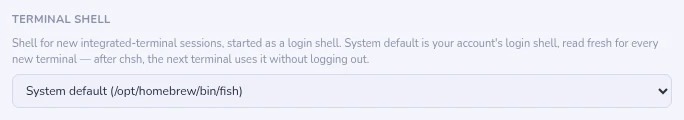
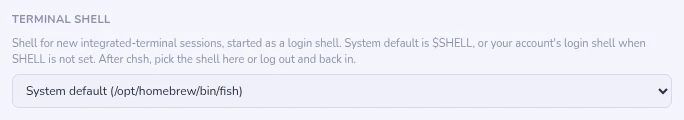
fix(terminal): prefer a valid $SHELL over the account's login shell
An account can name fish while every session runs zsh; starting the account
shell switched those users' terminal away from the shell they use. The order
is now $SHELL, then the account shell, then zsh/bash, then sh, with the same
validation. The Settings picker is how to force the account shell or any other,
and the docs say to pick it there or relogin after chsh.

Changed region(s): [[0.0, 0.45, 0.5526, 0.55], [0.614, 0.3, 0.9825, 0.4]]

diff --git a/test/loginShell.test.ts b/test/loginShell.test.ts
@@ -16,8 +16,8 @@ import {
 } from '../src/main/loginShell'
 
 // Which shell the terminal, launch tasks and the PATH probe start on macOS/Linux.
-// The account's login shell (getpwuid) wins over SHELL, which a Dock-launched app
-// keeps from login time — a `chsh` to fish would otherwise need a relogin.
+// A valid SHELL wins — it is the shell the session runs, even when the account
+// names another — then the account's login shell (getpwuid), then the OS default.
 
 function probe(over: Partial<ShellProbe> & { exe?: string[] } = {}): ShellProbe & { warnings: string[] } {
   const exe = new Set(over.exe ?? ['/bin/zsh', '/bin/bash', '/bin/sh', '/opt/homebrew/bin/fish', '/usr/bin/fish'])
@@ -35,15 +35,28 @@ function probe(over: Partial<ShellProbe> & { exe?: string[] } = {}): ShellProbe 
 }
 
 describe('pickSystemShell — resolution order', () => {
-  it('prefers the account shell over a stale SHELL (chsh without relogin)', () => {
-    expect(pickSystemShell(probe({ accountShell: () => '/usr/bin/fish', envShell: '/bin/zsh' }))).toBe('/usr/bin/fish')
+  it('a valid SHELL wins over a different account shell (fish in passwd, zsh in use)', () => {
+    expect(pickSystemShell(probe({ accountShell: () => '/usr/bin/fish', envShell: '/bin/zsh' }))).toBe('/bin/zsh')
   })
 
-  it('falls back to SHELL when the account shell is unknown or unusable', () => {
-    expect(pickSystemShell(probe({ envShell: '/bin/bash' }))).toBe('/bin/bash')
-    expect(pickSystemShell(probe({ accountShell: () => '/gone/zsh', envShell: '/bin/bash' }))).toBe('/bin/bash')
-    expect(pickSystemShell(probe({ accountShell: () => 'zsh', envShell: '/bin/bash' }))).toBe('/bin/bash')
-    expect(pickSystemShell(probe({ accountShell: () => '/usr/sbin/nologin', envShell: '/bin/bash' }))).toBe('/bin/bash')
+  it('keeps SHELL after a chsh until relogin — the Settings picker is the way to switch at once', () => {
+    // chsh changed the account to fish; the running session's SHELL still says zsh.
+    const p = probe({ accountShell: () => '/usr/bin/fish', envShell: '/bin/zsh' })
+    expect(pickSystemShell(p)).toBe('/bin/zsh')
+    expect(resolvePosixShell('/usr/bin/fish', p, pickSystemShell(p)).file).toBe('/usr/bin/fish')
+  })
+
+  it('falls back to the account shell when SHELL is missing or unusable', () => {
+    expect(pickSystemShell(probe({ accountShell: () => '/usr/bin/fish' }))).toBe('/usr/bin/fish')
+    expect(pickSystemShell(probe({ accountShell: () => '/usr/bin/fish', envShell: '' }))).toBe('/usr/bin/fish')
+    expect(pickSystemShell(probe({ accountShell: () => '/usr/bin/fish', envShell: '/gone/zsh' }))).toBe('/usr/bin/fish')
+    expect(pickSystemShell(probe({ accountShell: () => '/usr/bin/fish', envShell: 'zsh' }))).toBe('/usr/bin/fish')
+    expect(pickSystemShell(probe({ accountShell: () => '/bin/bash', envShell: '/usr/sbin/nologin' }))).toBe('/bin/bash')
+  })
+
+  it('skips an unusable account shell too', () => {
+    expect(pickSystemShell(probe({ accountShell: () => '/usr/sbin/nologin' }))).toBe('/bin/zsh')
+    expect(pickSystemShell(probe({ platform: 'linux', accountShell: () => '/gone/fish' }))).toBe('/bin/bash')
   })
 
   it('uses the OS default when neither is usable: zsh on macOS, bash on Linux, then sh', () => {
@@ -158,9 +171,11 @@ describe.skipIf(process.platform === 'win32')('on this machine', () => {
     expect(resolvePosixShell(file, machineProbe(), '/bin/sh').missing).toBe(file)
   })
 
-  it('resolves the system shell to an executable', () => {
+  it('resolves the system shell to an executable — SHELL itself when it is one', () => {
     const sh = pickSystemShell(machineProbe())
     expect(sh.startsWith('/')).toBe(true)
     expect(() => execFileSync(sh, ['-c', 'exit 0'])).not.toThrow()
+    const env = process.env['SHELL']
+    if (env && env.startsWith('/') && machineProbe().isExecutable(env)) expect(sh).toBe(env)
   })
 })

diff --git a/src/main/loginShell.ts b/src/main/loginShell.ts
@@ -5,11 +5,11 @@ import { basename, dirname, isAbsolute, join } from 'path'
 /**
  * Which shell the terminal, launch tasks and the PATH probe run on macOS/Linux.
  *
- * `process.env.SHELL` alone is wrong for a GUI app: launched from the Dock or a
- * desktop menu it holds whatever the session started with, so a `chsh` to fish
- * only shows up after logging out — and it can be missing entirely. The
- * account database is the source of truth (`getpwuid`, which on macOS reads
- * Directory Services and so sees `chsh` at once); SHELL is the fallback.
+ * A valid `$SHELL` wins: it is the shell the user's session actually runs, and
+ * people do keep an account shell they never use (fish in passwd, zsh in
+ * SHELL). When SHELL is missing or unusable — a GUI app can start without it —
+ * the account database (`getpwuid`, Directory Services on macOS) is next. A
+ * `chsh` therefore shows after a relogin, or at once through the Settings picker.
  */
 
 /** Everything the decision reads from the machine — injected so tests can fake it. */
@@ -83,10 +83,10 @@ function validate(file: string | null | undefined, probe: ShellProbe, source: st
   return f
 }
 
-/** The resolution order, pure: account shell → SHELL → the OS default → /bin/sh. */
+/** The resolution order, pure: SHELL → account shell → the OS default → /bin/sh. */
 export function pickSystemShell(probe: ShellProbe): string {
   if (probe.platform === 'win32') return probe.envShell || 'powershell.exe'
-  const found = validate(probe.accountShell(), probe, 'account') ?? validate(probe.envShell, probe, 'SHELL')
+  const found = validate(probe.envShell, probe, 'SHELL') ?? validate(probe.accountShell(), probe, 'account')
   if (found) return found
   const fallback = probe.platform === 'darwin' ? '/bin/zsh' : '/bin/bash'
   return probe.isExecutable(fallback) ? fallback : '/bin/sh'
@@ -120,7 +120,7 @@ export function machineProbe(): ShellProbe {
       try {
         return userInfo().shell
       } catch {
-        // No passwd entry (some containers): fall through to SHELL.
+        // No passwd entry (some containers): fall through to the OS default.
         return null
       }
     },
@@ -139,7 +139,8 @@ let cached: string | null = null
 
 /**
  * The user's shell. Cached, but `refresh` re-reads it — a new terminal asks
- * for that (a getpwuid and a stat), so a `chsh` shows in the next terminal.
+ * for that (a stat or two), so a shell installed or removed meanwhile, or an
+ * account shell changed while SHELL is unusable, shows in the next terminal.
  */
 export function systemShell(refresh = false): string {
   if (refresh || cached === null) cached = pickSystemShell(machineProbe())

diff --git a/src/renderer/src/i18n/ru.ts b/src/renderer/src/i18n/ru.ts
@@ -1908,7 +1908,7 @@ export const ru: Dict = {
   'settings.terminalShellHint': 'Оболочка для новых сеансов встроенного терминала (существующие сеансы сохраняют свою).',
     'settings.terminalShellCustom': 'Другая…',
     'settings.terminalShellCustomPlaceholder': 'C:\\tools\\nu.exe',
-    'settings.terminalShellPosixHint': 'Оболочка для новых сеансов встроенного терминала, запускается как оболочка входа. По умолчанию — оболочка входа вашей учётной записи, она перечитывается для каждого нового терминала: после chsh следующий терминал использует её без повторного входа в систему.',
+    'settings.terminalShellPosixHint': 'Оболочка для новых сеансов встроенного терминала, запускается как оболочка входа. По умолчанию — $SHELL, а если SHELL не задана — оболочка входа вашей учётной записи. После chsh выберите оболочку здесь или выйдите из системы и войдите снова.',
     'settings.terminalShellSystem': 'Системная по умолчанию ({shell})',
     'settings.terminalShellSystemPlain': 'Системная по умолчанию',
     'settings.terminalShellPosixPlaceholder': '/opt/homebrew/bin/fish',

diff --git a/src/renderer/src/i18n/uk.ts b/src/renderer/src/i18n/uk.ts
@@ -1908,7 +1908,7 @@ export const uk: Dict = {
   'settings.terminalShellHint': 'Оболонка для нових сеансів вбудованого термінала (наявні сеанси зберігають свою).',
     'settings.terminalShellCustom': 'Інша…',
     'settings.terminalShellCustomPlaceholder': 'C:\\tools\\nu.exe',
-    'settings.terminalShellPosixHint': 'Оболонка для нових сеансів вбудованого термінала, запускається як оболонка входу. Типова системна — оболонка входу вашого облікового запису, її перечитують для кожного нового термінала: після chsh наступний термінал використає її без повторного входу.',
+    'settings.terminalShellPosixHint': 'Оболонка для нових сеансів вбудованого термінала, запускається як оболонка входу. Типова системна — $SHELL, а якщо SHELL не задано — оболонка входу вашого облікового запису. Після chsh виберіть оболонку тут або вийдіть із системи й увійдіть знову.',
     'settings.terminalShellSystem': 'Типова системна ({shell})',
     'settings.terminalShellSystemPlain': 'Типова системна',
     'settings.terminalShellPosixPlaceholder': '/opt/homebrew/bin/fish',

diff --git a/src/renderer/src/i18n/ar.ts b/src/renderer/src/i18n/ar.ts
@@ -1908,7 +1908,7 @@ export const ar: Dict = {
   'settings.terminalShellHint': 'الصدفة لجلسات الطرفية المدمجة الجديدة (الجلسات الحالية تحتفظ بصدفتها).',
     'settings.terminalShellCustom': 'مخصص…',
     'settings.terminalShellCustomPlaceholder': 'C:\\tools\\nu.exe',
-    'settings.terminalShellPosixHint': 'الصدفة المستخدمة لجلسات الطرفية المدمجة الجديدة، وتُشغَّل كصدفة تسجيل دخول. الافتراضي للنظام هو صدفة تسجيل الدخول لحسابك، وتُقرأ من جديد لكل طرفية جديدة — بعد chsh تستخدمها الطرفية التالية دون تسجيل الخروج.',
+    'settings.terminalShellPosixHint': 'الصدفة المستخدمة لجلسات الطرفية المدمجة الجديدة، وتُشغَّل كصدفة تسجيل دخول. الافتراضي للنظام هو $SHELL، أو صدفة تسجيل الدخول لحسابك إذا لم يكن SHELL معيّنًا. بعد chsh اختر الصدفة من هنا أو سجّل الخروج ثم الدخول من جديد.',
     'settings.terminalShellSystem': 'افتراضي النظام ({shell})',
     'settings.terminalShellSystemPlain': 'افتراضي النظام',
     'settings.terminalShellPosixPlaceholder': '/opt/homebrew/bin/fish',

diff --git a/src/renderer/src/i18n/he.ts b/src/renderer/src/i18n/he.ts
@@ -1908,7 +1908,7 @@ export const he: Dict = {
   'settings.terminalShellHint': 'המעטפת לסשנים חדשים של הטרמינל המשולב (סשנים קיימים שומרים על שלהם).',
     'settings.terminalShellCustom': 'מותאם אישית…',
     'settings.terminalShellCustomPlaceholder': 'C:\\tools\\nu.exe',
-    'settings.terminalShellPosixHint': 'המעטפת לסשנים חדשים של הטרמינל המשולב, מופעלת כמעטפת התחברות. ברירת המחדל של המערכת היא מעטפת ההתחברות של החשבון שלך, ונקראת מחדש לכל טרמינל חדש — אחרי chsh הטרמינל הבא משתמש בה בלי להתנתק.',
+    'settings.terminalShellPosixHint': 'המעטפת לסשנים חדשים של הטרמינל המשולב, מופעלת כמעטפת התחברות. ברירת המחדל של המערכת היא $SHELL, או מעטפת ההתחברות של החשבון שלך כש־SHELL אינו מוגדר. אחרי chsh בחרו את המעטפת כאן, או התנתקו והתחברו מחדש.',
     'settings.terminalShellSystem': 'ברירת המחדל של המערכת ({shell})',
     'settings.terminalShellSystemPlain': 'ברירת המחדל של המערכת',
     'settings.terminalShellPosixPlaceholder': '/opt/homebrew/bin/fish',

diff --git a/src/renderer/src/i18n/ja.ts b/src/renderer/src/i18n/ja.ts
@@ -1887,7 +1887,7 @@ export const ja: Dict = {
   'settings.terminalShellHint': '新しい統合ターミナルセッションのシェル（既存のセッションは現在のシェルを維持します）。',
     'settings.terminalShellCustom': 'カスタム…',
     'settings.terminalShellCustomPlaceholder': 'C:\\tools\\nu.exe',
-    'settings.terminalShellPosixHint': '統合ターミナルの新しいセッションで使うシェル（ログインシェルとして起動）。システム既定はアカウントのログインシェルで、新しいターミナルごとに読み直します。chsh の後は、ログアウトしなくても次のターミナルから反映されます。',
+    'settings.terminalShellPosixHint': '統合ターミナルの新しいセッションで使うシェル（ログインシェルとして起動）。システム既定は $SHELL で、SHELL が未設定ならアカウントのログインシェルを使います。chsh の後は、ここでシェルを選ぶか、ログアウトして再ログインしてください。',
     'settings.terminalShellSystem': 'システム既定（{shell}）',
     'settings.terminalShellSystemPlain': 'システム既定',
     'settings.terminalShellPosixPlaceholder': '/opt/homebrew/bin/fish',

diff --git a/src/renderer/src/i18n/ko.ts b/src/renderer/src/i18n/ko.ts
@@ -1908,7 +1908,7 @@ export const ko: Dict = {
   'settings.terminalShellHint': '새 통합 터미널 세션의 셸입니다 (기존 세션은 현재 셸을 유지합니다).',
     'settings.terminalShellCustom': '사용자 지정…',
     'settings.terminalShellCustomPlaceholder': 'C:\\tools\\nu.exe',
-    'settings.terminalShellPosixHint': '통합 터미널의 새 세션에서 사용할 셸로, 로그인 셸로 시작됩니다. 시스템 기본값은 계정의 로그인 셸이며 새 터미널마다 다시 읽습니다. chsh 후에는 다시 로그인하지 않아도 다음 터미널부터 적용됩니다.',
+    'settings.terminalShellPosixHint': '통합 터미널의 새 세션에서 사용할 셸로, 로그인 셸로 시작됩니다. 시스템 기본값은 $SHELL이며, SHELL이 설정되지 않았으면 계정의 로그인 셸을 사용합니다. chsh 후에는 여기서 셸을 선택하거나 로그아웃했다가 다시 로그인하세요.',
     'settings.terminalShellSystem': '시스템 기본값 ({shell})',
     'settings.terminalShellSystemPlain': '시스템 기본값',
     'settings.terminalShellPosixPlaceholder': '/opt/homebrew/bin/fish',

diff --git a/src/renderer/src/i18n/es.ts b/src/renderer/src/i18n/es.ts
@@ -1904,7 +1904,7 @@ export const es: Dict = {
   'settings.terminalShellHint': 'Shell para las nuevas sesiones del terminal integrado (las sesiones existentes conservan la suya).',
     'settings.terminalShellCustom': 'Personalizado…',
     'settings.terminalShellCustomPlaceholder': 'C:\\tools\\nu.exe',
-    'settings.terminalShellPosixHint': 'Shell para las nuevas sesiones del terminal integrado, iniciada como shell de inicio de sesión. El predeterminado del sistema es la shell de inicio de sesión de tu cuenta, leída de nuevo en cada terminal: tras chsh, el siguiente terminal la usa sin cerrar sesión.',
+    'settings.terminalShellPosixHint': 'Shell para las nuevas sesiones del terminal integrado, iniciada como shell de inicio de sesión. El predeterminado del sistema es $SHELL, o la shell de inicio de sesión de tu cuenta si SHELL no está definida. Tras chsh, elige la shell aquí o cierra sesión y vuelve a entrar.',
     'settings.terminalShellSystem': 'Predeterminado del sistema ({shell})',
     'settings.terminalShellSystemPlain': 'Predeterminado del sistema',
     'settings.terminalShellPosixPlaceholder': '/opt/homebrew/bin/fish',

diff --git a/src/renderer/src/i18n/tr.ts b/src/renderer/src/i18n/tr.ts
@@ -1887,7 +1887,7 @@ export const tr: Dict = {
   'settings.terminalShellHint': 'Yeni tümleşik terminal oturumları için kabuk (mevcut oturumlar kendi kabuğunu korur).',
     'settings.terminalShellCustom': 'Özel…',
     'settings.terminalShellCustomPlaceholder': 'C:\\tools\\nu.exe',
-    'settings.terminalShellPosixHint': 'Tümleşik terminalin yeni oturumları için kabuk, oturum açma kabuğu olarak başlatılır. Sistem varsayılanı hesabınızın oturum açma kabuğudur ve her yeni terminalde yeniden okunur — chsh sonrasında bir sonraki terminal, oturumu kapatmadan onu kullanır.',
+    'settings.terminalShellPosixHint': 'Tümleşik terminalin yeni oturumları için kabuk, oturum açma kabuğu olarak başlatılır. Sistem varsayılanı $SHELL\'dir; SHELL tanımlı değilse hesabınızın oturum açma kabuğu kullanılır. chsh sonrasında kabuğu buradan seçin ya da oturumu kapatıp yeniden açın.',
     'settings.terminalShellSystem': 'Sistem varsayılanı ({shell})',
     'settings.terminalShellSystemPlain': 'Sistem varsayılanı',
     'settings.terminalShellPosixPlaceholder': '/opt/homebrew/bin/fish',

diff --git a/src/renderer/src/i18n/fr.ts b/src/renderer/src/i18n/fr.ts
@@ -1887,7 +1887,7 @@ export const fr: Dict = {
   'settings.terminalShellHint': 'Shell pour les nouvelles sessions du terminal intégré (les sessions existantes gardent le leur).',
     'settings.terminalShellCustom': 'Personnalisé…',
     'settings.terminalShellCustomPlaceholder': 'C:\\tools\\nu.exe',
-    'settings.terminalShellPosixHint': 'Shell des nouvelles sessions du terminal intégré, lancé comme shell de connexion. Le défaut système est le shell de connexion de votre compte, relu à chaque nouveau terminal : après chsh, le terminal suivant l\'utilise sans vous reconnecter.',
+    'settings.terminalShellPosixHint': 'Shell des nouvelles sessions du terminal intégré, lancé comme shell de connexion. Le défaut système est $SHELL, ou le shell de connexion de votre compte si SHELL n\'est pas défini. Après chsh, choisissez le shell ici ou déconnectez-vous puis reconnectez-vous.',
     'settings.terminalShellSystem': 'Défaut du système ({shell})',
     'settings.terminalShellSystemPlain': 'Défaut du système',
     'settings.terminalShellPosixPlaceholder': '/opt/homebrew/bin/fish',

diff --git a/src/renderer/src/i18n/it.ts b/src/renderer/src/i18n/it.ts
@@ -1888,7 +1888,7 @@ export const it: Dict = {
   'settings.terminalShellHint': 'Shell per le nuove sessioni del terminale integrato (le sessioni esistenti mantengono la propria).',
     'settings.terminalShellCustom': 'Personalizzata…',
     'settings.terminalShellCustomPlaceholder': 'C:\\tools\\nu.exe',
-    'settings.terminalShellPosixHint': 'Shell per le nuove sessioni del terminale integrato, avviata come shell di login. Il predefinito di sistema è la shell di login del tuo account, riletta a ogni nuovo terminale: dopo chsh, il terminale successivo la usa senza dover rifare l\'accesso.',
+    'settings.terminalShellPosixHint': 'Shell per le nuove sessioni del terminale integrato, avviata come shell di login. Il predefinito di sistema è $SHELL, oppure la shell di login del tuo account se SHELL non è impostata. Dopo chsh, scegli la shell qui oppure esci e rientra nella sessione.',
     'settings.terminalShellSystem': 'Predefinita di sistema ({shell})',
     'settings.terminalShellSystemPlain': 'Predefinita di sistema',
     'settings.terminalShellPosixPlaceholder': '/opt/homebrew/bin/fish',
